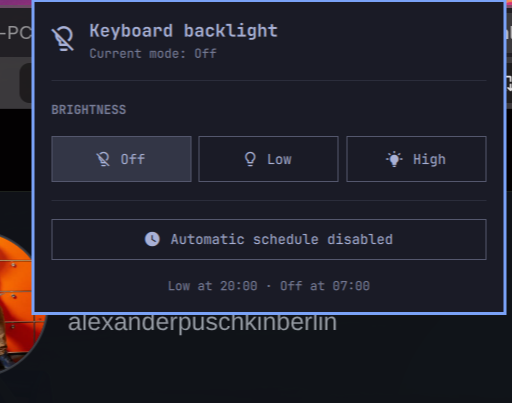
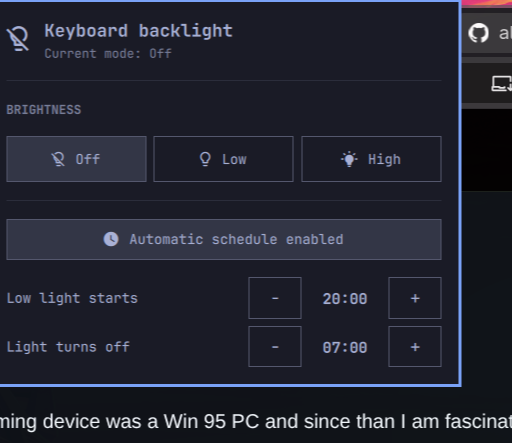
Add editable automatic schedule times

Changed region(s): [[0.0, 0.0, 1.0, 0.9826]]

diff --git a/Panel.qml b/Panel.qml
@@ -23,6 +23,12 @@ Panel {
     selectedIndex = index
     if (hostWidget) hostWidget.setMode(modes[index].mode)
   }
+  function changeNightHour(delta) {
+    if (hostWidget) hostWidget.setScheduleHour("nightStartHour", hostWidget.nightStartHour + delta)
+  }
+  function changeDayHour(delta) {
+    if (hostWidget) hostWidget.setScheduleHour("dayStartHour", hostWidget.dayStartHour + delta)
+  }
   function switchPanel(direction) {
     if (bar && typeof bar.switchPanelFrom === "function") return bar.switchPanelFrom(hostWidget || root, direction)
     return false
@@ -135,17 +141,80 @@ Panel {
           onClicked: if (hostWidget) hostWidget.setScheduleEnabled(!hostWidget.scheduleEnabled)
         }
 
-        Text {
+        Column {
           width: parent.width
-          text: hostWidget
-            ? "Low at " + String(hostWidget.nightStartHour).padStart(2, "0") + ":00 · Off at " + String(hostWidget.dayStartHour).padStart(2, "0") + ":00"
-            : ""
-          color: Qt.darker(root.bar.foreground, 1.4)
-          font.family: root.bar.fontFamily
-          font.pixelSize: Style.font.caption
-          horizontalAlignment: Text.AlignHCenter
+          spacing: Style.space(6)
+
+          ScheduleTimeRow {
+            label: "Low light starts"
+            hour: hostWidget ? hostWidget.nightStartHour : 20
+            onDecreaseRequested: root.changeNightHour(-1)
+            onIncreaseRequested: root.changeNightHour(1)
+          }
+
+          ScheduleTimeRow {
+            label: "Light turns off"
+            hour: hostWidget ? hostWidget.dayStartHour : 7
+            onDecreaseRequested: root.changeDayHour(-1)
+            onIncreaseRequested: root.changeDayHour(1)
+          }
         }
       }
+    }
+  }
+
+  component ScheduleTimeRow: Row {
+    id: scheduleRow
+    property string label: ""
+    property int hour: 0
+    signal decreaseRequested()
+    signal increaseRequested()
+
+    width: parent.width
+    spacing: Style.space(6)
+
+    Text {
+      width: Math.max(0, parent.width - decreaseButton.width - timeLabel.width - increaseButton.width - parent.spacing * 3)
+      anchors.verticalCenter: parent.verticalCenter
+      text: scheduleRow.label
+      color: root.bar.foreground
+      font.family: root.bar.fontFamily
+      font.pixelSize: Style.font.bodySmall
+      elide: Text.ElideRight
+    }
+
+    Button {
+      id: decreaseButton
+      width: Style.space(42)
+      text: "−"
+      fontSize: Style.font.title
+      foreground: root.bar.foreground
+      fontFamily: root.bar.fontFamily
+      bordered: true
+      onClicked: scheduleRow.decreaseRequested()
+    }
+
+    Text {
+      id: timeLabel
+      width: Style.space(58)
+      anchors.verticalCenter: parent.verticalCenter
+      text: String(scheduleRow.hour).padStart(2, "0") + ":00"
+      color: root.bar.foreground
+      font.family: root.bar.fontFamily
+      font.pixelSize: Style.font.body
+      font.bold: true
+      horizontalAlignment: Text.AlignHCenter
+    }
+
+    Button {
+      id: increaseButton
+      width: Style.space(42)
+      text: "+"
+      fontSize: Style.font.title
+      foreground: root.bar.foreground
+      fontFamily: root.bar.fontFamily
+      bordered: true
+      onClicked: scheduleRow.increaseRequested()
     }
   }
 }

diff --git a/BarWidget.qml b/BarWidget.qml
@@ -70,6 +70,15 @@ BarWidget {
     if (value) Qt.callLater(function() { root.applySchedule(true) })
   }
 
+  function setScheduleHour(key, value) {
+    var normalized = ((Number(value) % 24) + 24) % 24
+    var update = {}
+    update[key] = normalized
+    persistSettings(update)
+    lastSchedulePeriod = ""
+    if (scheduleEnabled) Qt.callLater(function() { root.applySchedule(true) })
+  }
+
   function open() { if (panelLoader.item) panelLoader.item.open() }
   function close() { if (panelLoader.item) panelLoader.item.close() }
   function toggle() { if (panelLoader.item) panelLoader.item.toggle() }

diff --git a/README.md b/README.md
@@ -12,7 +12,7 @@ A native Omarchy Quattro bar widget for ThinkPad keyboard backlights, designed p
 
 ### Automatic mode
 
-The schedule can be enabled directly in the plugin panel. The configured transition times remain visible underneath the switch.
+The schedule can be enabled directly in the plugin panel. Both transition times can be adjusted there with the `−` and `+` controls.
 
 ![Automatic schedule enabled](assets/automatic-enabled.png)
 
@@ -77,7 +77,7 @@ The active mode is highlighted in the panel and reflected by the bulb icon in th
 
 ## Automatic schedule
 
-Scheduling is disabled by default and must be enabled explicitly in the panel or widget settings. Defaults:
+Scheduling is disabled by default and must be enabled explicitly in the panel or widget settings. The panel contains separate hour controls for both transitions. Defaults:
 
 - Night begins at `20:00`: set the backlight to Low.
 - Day begins at `07:00`: turn the backlight Off.
